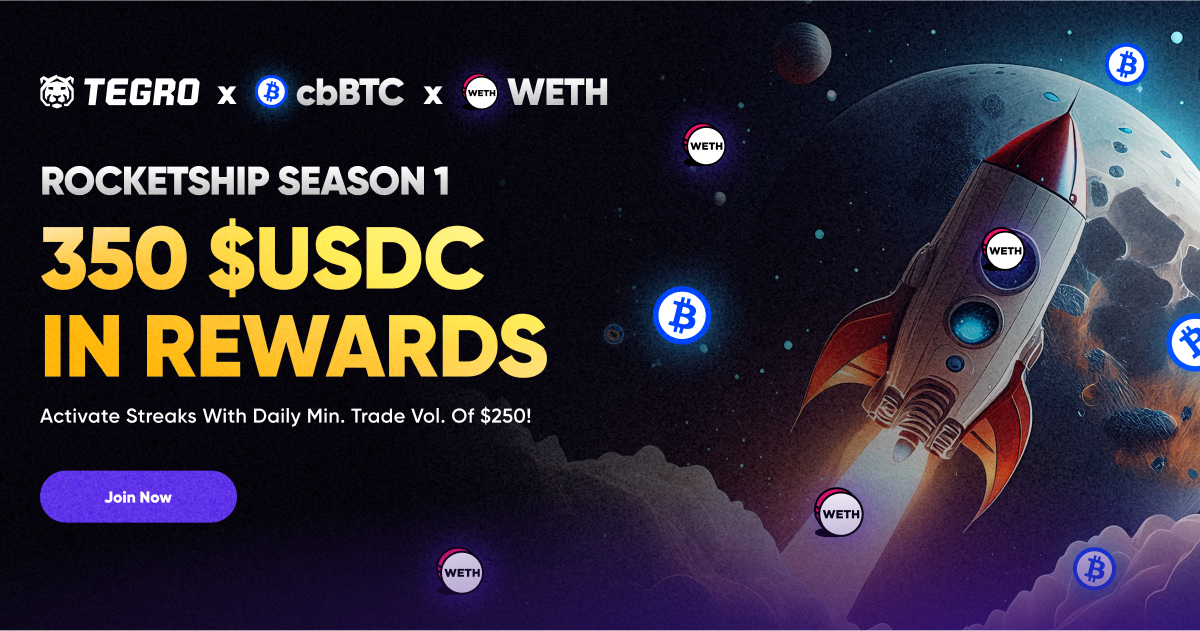
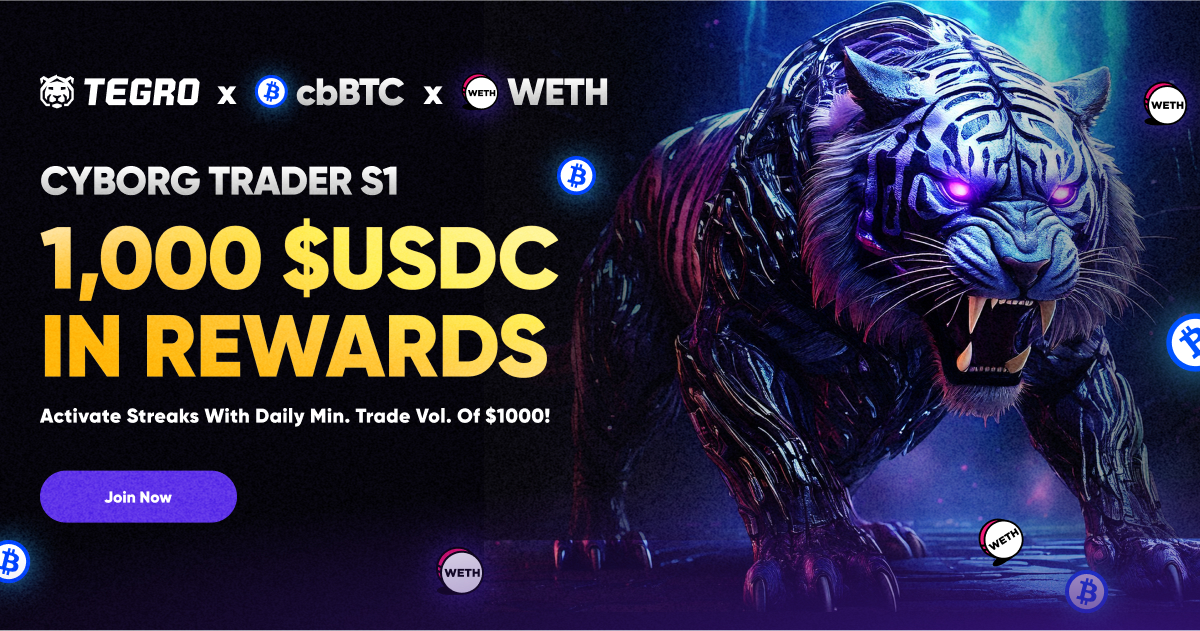
New tournament

diff --git a/pages/tournaments/index.js b/pages/tournaments/index.js
@@ -176,6 +176,21 @@ const Tournaments = () => {
                   <GemsStreak streaks={getOngoingTournament().tiers} position={getStreakPosition()} />
                 ) : null}
 
+                <App.Flex row align="center" justify="space-between" className={styles.botBanner}>
+                  <App.Flex row align="center" gap={16}>
+                    <App.Flex row center className={styles.bag}>
+                      <App.Text size={30}>💰</App.Text>
+                    </App.Flex>
+
+                    <App.Flex column gap={4}>
+                      <App.Text size={16} weight={700}>Claim your share of $1000 USDC prize pool</App.Text>
+                      <App.Text size={14} weight={500}>Read our detailed guide on how to deploy a trading bot that wins you tournaments.</App.Text>
+                    </App.Flex>
+                  </App.Flex>
+
+                  <App.Button href="https://bit.ly/tegro-cyborg-trader-s1" target="_blank" primary2 outlined>Build your trading bot today!</App.Button>
+                </App.Flex>
+
                 {getSortedKeys().map((key, index) => {
                     const tournament = tournaments[key]
                     return (
@@ -262,7 +277,7 @@ const Tournaments = () => {
                                   <App.Button primary2 onClick={handleExchangeAddress(tournament, '0x60a3e35cc302bfa44cb288bc5a4f316fdb1adb42')}>Trade $EURC</App.Button>
                                   <App.Button primary2 onClick={handleExchangeAddress(tournament, '0xac1bd2486aaf3b5c0fc3fd868558b082a531b2b4')}>Trade $TOSHI</App.Button>
                                 </App.Flex>
-                              ) : tournament.alias == 'og-trader-s1' || tournament.alias == 'uptober-s1' || tournament.alias == 'uptober-s2' || tournament.alias == 'rocketship-s1' ? (
+                              ) : tournament.alias == 'og-trader-s1' || tournament.alias == 'uptober-s1' || tournament.alias == 'uptober-s2' || tournament.alias == 'rocketship-s1' || tournament.alias == 'cyborg-trader-s1' ? (
                                 <App.Flex direction={['row', 'column']} gap={8}>
                                   <App.Button primary2 onClick={handleExchangeAddress(tournament, '0xcbb7c0000ab88b473b1f5afd9ef808440eed33bf')}>Trade $cbBTC</App.Button>
                                   <App.Button primary2 onClick={handleExchangeAddress(tournament, '0x4200000000000000000000000000000000000006')}>Trade $WETH</App.Button>
@@ -375,7 +390,7 @@ const Tournaments = () => {
                                 <App.Button primary2 onClick={handleExchangeAddress(tournament, '0x60a3e35cc302bfa44cb288bc5a4f316fdb1adb42')}>Trade $EURC</App.Button>
                                 <App.Button primary2 onClick={handleExchangeAddress(tournament, '0xac1bd2486aaf3b5c0fc3fd868558b082a531b2b4')}>Trade $TOSHI</App.Button>
                               </App.Flex>
-                            ) : tournament.alias == 'og-trader-s1' || tournament.alias == 'uptober-s1' || tournament.alias == 'uptober-s2' || tournament.alias == 'rocketship-s1' ? (
+                            ) : tournament.alias == 'og-trader-s1' || tournament.alias == 'uptober-s1' || tournament.alias == 'uptober-s2' || tournament.alias == 'rocketship-s1' || tournament.alias == 'cyborg-trader-s1' ? (
                               <App.Flex direction={['row', 'column']} gap={8}>
                                 <App.Button primary2 onClick={handleExchangeAddress(tournament, '0xcbb7c0000ab88b473b1f5afd9ef808440eed33bf')}>Trade $cbBTC</App.Button>
                                 <App.Button primary2 onClick={handleExchangeAddress(tournament, '0x4200000000000000000000000000000000000006')}>Trade $WETH</App.Button>

diff --git a/components/Tournament/TournamentBanner/index.js b/components/Tournament/TournamentBanner/index.js
@@ -64,8 +64,17 @@ const TournamentBanner = ({ tournament }) => {
 
       <App.Flex column gap={8}>
         <App.Flex row gap={[16, 8]}>
-          <App.Flex row center gap={[12, 8]}>
+          <App.Flex row center gap={6}>
             <App.Text size={[34, 22]} weight={900} height={1} gradient="radial-gradient(193.17% 113.6% at 96.29% 4.49%, #FFF6A3 0%, #FFF066 34.61%, #FFCB45 68.83%, #FFBD13 100%)">1</App.Text>
+
+            <App.Flex column gap={2}>
+              <App.Text uppercase size={[16, 12]} weight={900} height={1}>Setup</App.Text>
+              <App.Text size={[12, 9]} weight={500} height={1}>Trading Bot</App.Text>
+            </App.Flex>
+          </App.Flex>
+
+          <App.Flex row center gap={6}>
+            <App.Text size={[34, 22]} weight={900} height={1} gradient="radial-gradient(193.17% 113.6% at 96.29% 4.49%, #FFF6A3 0%, #FFF066 34.61%, #FFCB45 68.83%, #FFBD13 100%)">2</App.Text>
 
             <App.Flex column gap={2}>
               <App.Text uppercase size={[16, 12]} weight={900} height={1}>Trade</App.Text>
@@ -73,8 +82,8 @@ const TournamentBanner = ({ tournament }) => {
             </App.Flex>
           </App.Flex>
 
-          <App.Flex row center gap={[12, 8]}>
-            <App.Text size={[34, 22]} weight={900} height={1} gradient="radial-gradient(193.17% 113.6% at 96.29% 4.49%, #FFF6A3 0%, #FFF066 34.61%, #FFCB45 68.83%, #FFBD13 100%)">2</App.Text>
+          <App.Flex row center gap={6}>
+            <App.Text size={[34, 22]} weight={900} height={1} gradient="radial-gradient(193.17% 113.6% at 96.29% 4.49%, #FFF6A3 0%, #FFF066 34.61%, #FFCB45 68.83%, #FFBD13 100%)">3</App.Text>
 
             <App.Flex column gap={2}>
               <App.Text uppercase size={[16, 12]} weight={900} height={1}>Collect</App.Text>
@@ -82,8 +91,8 @@ const TournamentBanner = ({ tournament }) => {
             </App.Flex>
           </App.Flex>
 
-          <App.Flex row center gap={[12, 8]}>
-            <App.Text size={[34, 22]} weight={900} height={1} gradient="radial-gradient(193.17% 113.6% at 96.29% 4.49%, #FFF6A3 0%, #FFF066 34.61%, #FFCB45 68.83%, #FFBD13 100%)">3</App.Text>
+          <App.Flex row center gap={6}>
+            <App.Text size={[34, 22]} weight={900} height={1} gradient="radial-gradient(193.17% 113.6% at 96.29% 4.49%, #FFF6A3 0%, #FFF066 34.61%, #FFCB45 68.83%, #FFBD13 100%)">4</App.Text>
 
             <App.Flex column gap={2}>
               <App.Text uppercase size={[16, 12]} weight={900} height={1}>Climb</App.Text>
@@ -91,8 +100,8 @@ const TournamentBanner = ({ tournament }) => {
             </App.Flex>
           </App.Flex>
 
-          <App.Flex row center gap={[12, 8]}>
-            <App.Text size={[34, 22]} weight={900} height={1} gradient="radial-gradient(193.17% 113.6% at 96.29% 4.49%, #FFF6A3 0%, #FFF066 34.61%, #FFCB45 68.83%, #FFBD13 100%)">4</App.Text>
+          <App.Flex row center gap={6}>
+            <App.Text size={[34, 22]} weight={900} height={1} gradient="radial-gradient(193.17% 113.6% at 96.29% 4.49%, #FFF6A3 0%, #FFF066 34.61%, #FFCB45 68.83%, #FFBD13 100%)">5</App.Text>
 
             <App.Flex column gap={2}>
               <App.Text uppercase size={[16, 12]} weight={900} height={1}>Win</App.Text>
@@ -101,7 +110,7 @@ const TournamentBanner = ({ tournament }) => {
           </App.Flex>
         </App.Flex>
 
-        <App.Text size={14} weight={600} height={1} color="#FFFFFF99">Activate streaks with daily min. trade vol. of $250!</App.Text>
+        <App.Text size={14} weight={600} height={1} color="#FFFFFF99">Activate streaks with daily min. trade vol. of $1000!</App.Text>
       </App.Flex>
     </App.Flex>
   )

diff --git a/components/Exchange/Sidebar/SidebarBanner/index.js b/components/Exchange/Sidebar/SidebarBanner/index.js
@@ -44,8 +44,8 @@ const SidebarBanner = () => {
   }, [current])
 
   const fetchTournament = async () => {
-    const result = await $gem.api.currentTournament()
-    // const result = await $gem.api.tournament('uptober-s2')
+    // const result = await $gem.api.currentTournament()
+    const result = await $gem.api.tournament('cyborg-trader-s1')
     if (result && result?.id) {
       dispatch($gem.set.currentTournament(result))
     }
@@ -118,22 +118,17 @@ const SidebarBanner = () => {
               </App.Flex>
 
               <App.Flex column gap={4}>
-                {/* <App.Text size={20} weight={600} height={1}>Trade {current.alias == 'alpha-trader-s1' ? current.specialCurrency : `$${current.currency}`}</App.Text> */}
-                {/* <App.Text size={14} weight={400} height={1} color="#FFFFFF99">Activate streaks with daily min. trade vol. of $100!</App.Text> */}
-                {/* <App.Text size={20} weight={600} height={1}>Trade {current.alias == 'alpha-trader-s2' ? current.specialCurrency : `$${current.currency}`}</App.Text> */}
-                <App.Text size={20} weight={600} height={1}>Trade {current.specialCurrency}</App.Text>
-                <App.Text size={14} weight={400} height={1} color="#FFFFFF99">Activate streaks with daily min. trade vol. of $250!</App.Text>
+                <App.Text size={20} weight={600} height={1}>Setup Trading Bot</App.Text>
               </App.Flex>
             </App.Flex>
 
-            <App.Flex gap={12} align="center" row>
+            <App.Flex gap={12} align="flex-start" row>
               <App.Flex center width={30}>
                 <App.Text size={[36, 24]} weight={900} height={1} color="#A6DC37">2</App.Text>
               </App.Flex>
 
-              <App.Flex direction={['column', 'row']} align={['flex-start', 'center']} gap={[4, 8]}>
-                {/* <App.Text uppercase size={16} weight={900} height={1}>Trade</App.Text> */}
-                <App.Text size={20} weight={600} height={1}>Collect Gems</App.Text>
+              <App.Flex column gap={4}>
+                <App.Text size={20} weight={600} height={1}>Trade {current.specialCurrency}</App.Text>
               </App.Flex>
             </App.Flex>
 
@@ -143,14 +138,23 @@ const SidebarBanner = () => {
               </App.Flex>
 
               <App.Flex direction={['column', 'row']} align={['flex-start', 'center']} gap={[4, 8]}>
-                {/* <App.Text uppercase size={16} weight={900} height={1}>Climb</App.Text> */}
-                <App.Text size={20} weight={600} height={1}>Climb Leaderboard</App.Text>
+                <App.Text size={20} weight={600} height={1}>Collect Gems</App.Text>
               </App.Flex>
             </App.Flex>
 
             <App.Flex gap={12} align="center" row>
               <App.Flex center width={30}>
                 <App.Text size={[36, 24]} weight={900} height={1} color="#A6DC37">4</App.Text>
+              </App.Flex>
+
+              <App.Flex direction={['column', 'row']} align={['flex-start', 'center']} gap={[4, 8]}>
+                <App.Text size={20} weight={600} height={1}>Climb Leaderboard</App.Text>
+              </App.Flex>
+            </App.Flex>
+
+            <App.Flex gap={12} align="center" row>
+              <App.Flex center width={30}>
+                <App.Text size={[36, 24]} weight={900} height={1} color="#A6DC37">5</App.Text>
               </App.Flex>
 
               <App.Flex direction={['column', 'row']} align={['flex-start', 'center']} gap={[4, 8]}>

diff --git a/store/gem.js b/store/gem.js
@@ -255,6 +255,10 @@ export const gemSlice = createSlice({
             value.slogan = (`${temp[0]} ${temp[1]}`).toUpperCase()
             value.specialCurrency = '$cbBTC & $WETH'
             break
+          case 'cyborg-trader-s1':
+            value.slogan = (`${temp[0]} ${temp[1]} s1`).toUpperCase()
+            value.specialCurrency = '$cbBTC & $WETH'
+            break
           default:
             value.slogan = (`${temp[0]} ${temp[1]}`).toUpperCase()
             value.specialCurrency = `$${value.currency}`
@@ -341,6 +345,10 @@ export const gemSlice = createSlice({
           break
         case 'rocketship-s1':
           slogan = (`${temp[0]} ${temp[1]}`).toUpperCase()
+          specialCurrency = '$cbBTC & $WETH'
+          break
+        case 'cyborg-trader-s1':
+          slogan = (`${temp[0]} ${temp[1]} s1`).toUpperCase()
           specialCurrency = '$cbBTC & $WETH'
           break
         default:

diff --git a/pages/tournaments/styles.module.scss b/pages/tournaments/styles.module.scss
@@ -91,4 +91,17 @@
       }
     }
   }
+
+  .botBanner {
+    padding: 16px;
+    border-radius: 12px;
+    background: linear-gradient(0deg, rgba(255, 255, 255, 0.07) 0%, rgba(255, 255, 255, 0.07) 100%), #0B0915;
+
+    .bag {
+      width: 48px;
+      height: 48px;
+      border-radius: 9px;
+      background: #6B41EB;
+    }
+  }
 }

diff --git a/components/Exchange/Sidebar/SidebarBanner/styles.module.scss b/components/Exchange/Sidebar/SidebarBanner/styles.module.scss
@@ -7,7 +7,6 @@
   left: 8px;
   max-width: 393px;
   z-index: 0;
-  // bottom: -500px;
   bottom: 0;
   transition: height .3s;
   height: 0;
@@ -21,7 +20,7 @@
 
   &.show {
     padding: 16px;
-    height: 467px;
+    height: 508px;
     border: 1px solid #FFFFFF33;
 
     @media (max-width: 768px) {

diff --git a/components/Tournament/TournamentBanner/styles.module.scss b/components/Tournament/TournamentBanner/styles.module.scss
@@ -7,7 +7,7 @@
   height: 120px;
   border-radius: 12px;
   border: 1px solid rgba(255, 255, 255, 0.10);
-  padding: 0 70px 0 30px;
+  padding: 0 30px;
   cursor: pointer;
 
   @media (max-width: 768px) {
